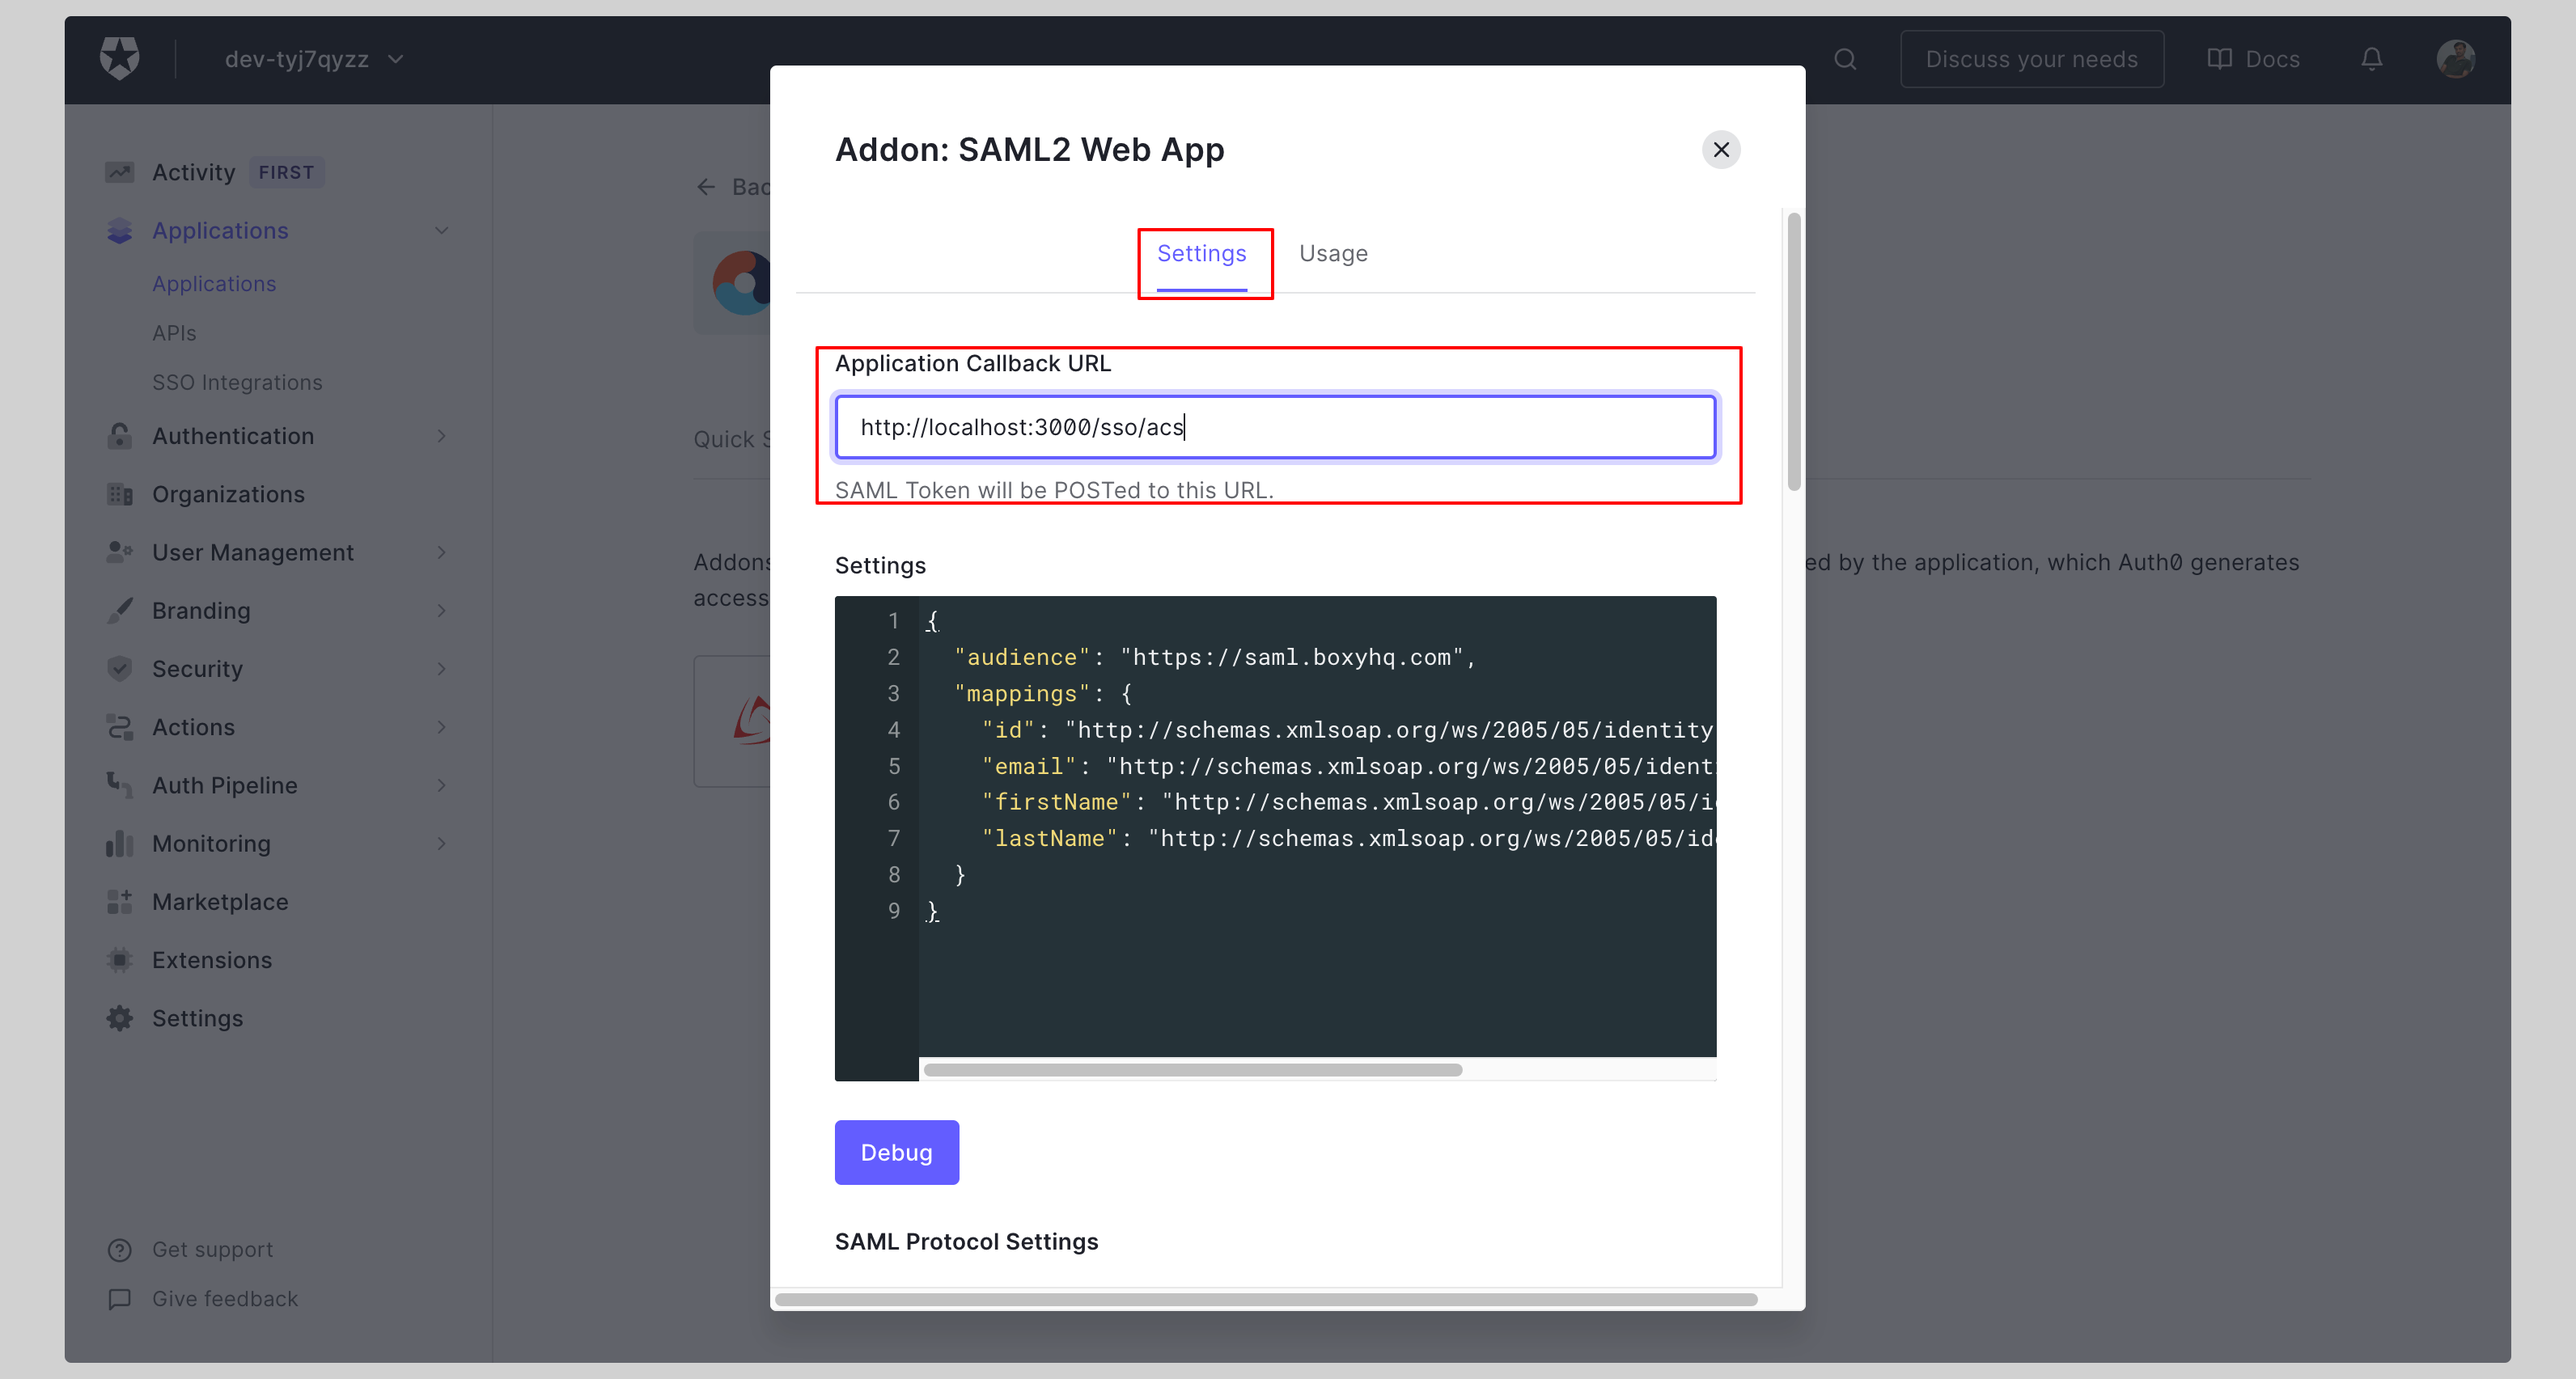
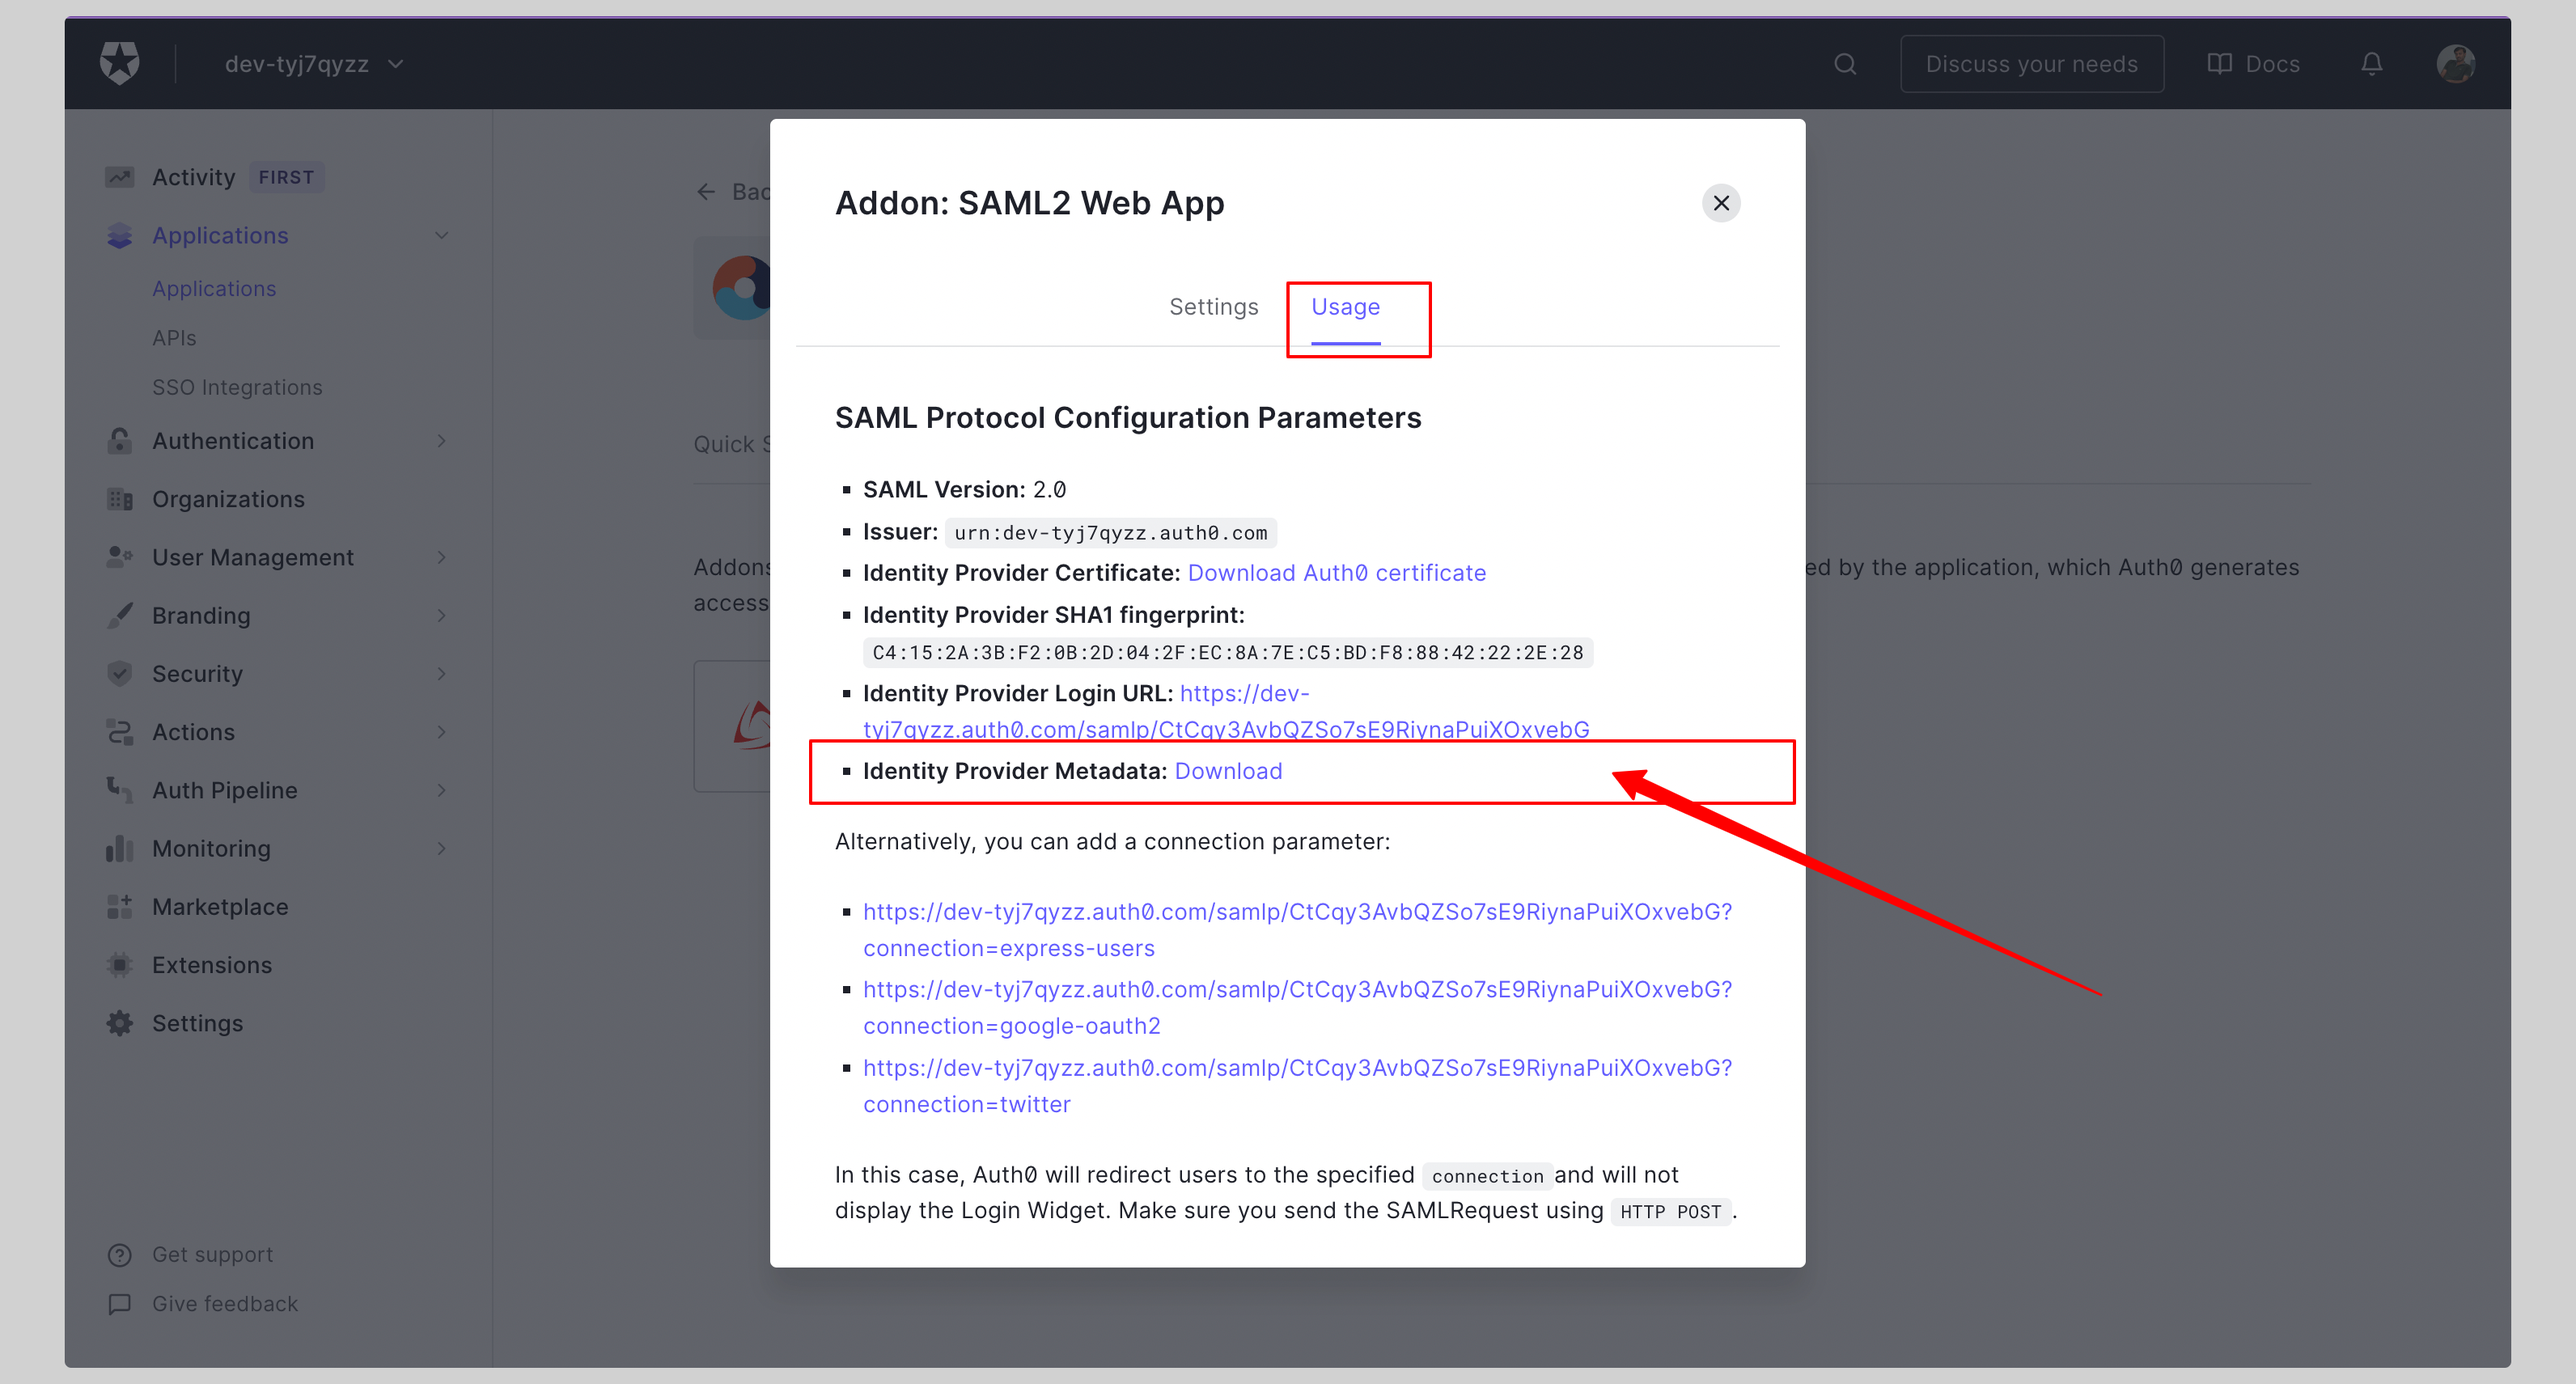
updated images for sso-providers

diff --git a/sidebars.js b/sidebars.js
@@ -27,15 +27,15 @@ module.exports = {
           label: 'Configure your SSO provider',
           link: { type: 'doc', id: 'jackson/sso-providers/index' },
           items: [
-            'jackson/sso-providers/auth0',
+            'jackson/sso-providers/generic-saml',
             'jackson/sso-providers/azure',
             'jackson/sso-providers/microsoft-adfs',
-            'jackson/sso-providers/google',
-            'jackson/sso-providers/jumpcloud',
             'jackson/sso-providers/okta',
+            'jackson/sso-providers/auth0',
+            'jackson/sso-providers/google',
             'jackson/sso-providers/onelogin',
             'jackson/sso-providers/pingone',
-            'jackson/sso-providers/generic-saml',
+            'jackson/sso-providers/jumpcloud',
             'jackson/sso-providers/generic-oidc',
           ],
         },

diff --git a/docs/jackson/sso-providers/index.md b/docs/jackson/sso-providers/index.md
@@ -7,13 +7,13 @@ sidebar_label: SSO Providers
 
 SAML Jackson supports the following SSO providers:
 
-- [Auth0](./auth0.md)
+- [Generic SAML 2.0 Provider](./generic-saml.md)
 - [Azure](./azure.md)
 - [Microsoft AD FS](./microsoft-adfs.md)
-- [Google](./google.md)
-- [JumpCloud](./jumpcloud.md)
 - [Okta](./okta.md)
+- [Auth0](./auth0.md)
+- [Google](./google.md)
 - [OneLogin](./onelogin.md)
 - [PingOne](./pingone.md)
-- [Generic SAML 2.0 Provider](./generic-saml.md)
+- [JumpCloud](./jumpcloud.md)
 - [OpenID Connect Provider](./generic-oidc.md)

diff --git a/docs/jackson/sso-providers/auth0.md b/docs/jackson/sso-providers/auth0.md
@@ -31,11 +31,11 @@ Enter your **Application Callback URL** on the next screen and click **Enable**.
 
 Replace the values with the ones you have received from SAML Jackson.
 
-![img alt](/img/sso-providers/auth0/4.png)
+![img alt](/img/sso-providers/auth0/3.png)
 
 Click the tab **Usage** and download the **Identity Provider Metadata**.
 
-![img alt](/img/sso-providers/auth0/3.png)
+![img alt](/img/sso-providers/auth0/4.png)
 
 ## Attribute Mapping
 

diff --git a/docs/jackson/deploy/npm-library.md b/docs/jackson/deploy/npm-library.md
@@ -31,8 +31,8 @@ let connection: IConnectionAPIController;
   const jackson = await require('@boxyhq/saml-jackson').controllers({
     externalUrl: "https://your-app.com",
     samlAudience: "https://saml.boxyhq.com",
-    oidcPath: "/sso/oidc",
-    samlPath: "/sso/acs"
+    oidcPath: "/api/oauth/oidc",
+    samlPath: "/api/oauth/saml"
     db: {
       engine: "sql",
       type: "postgres",
